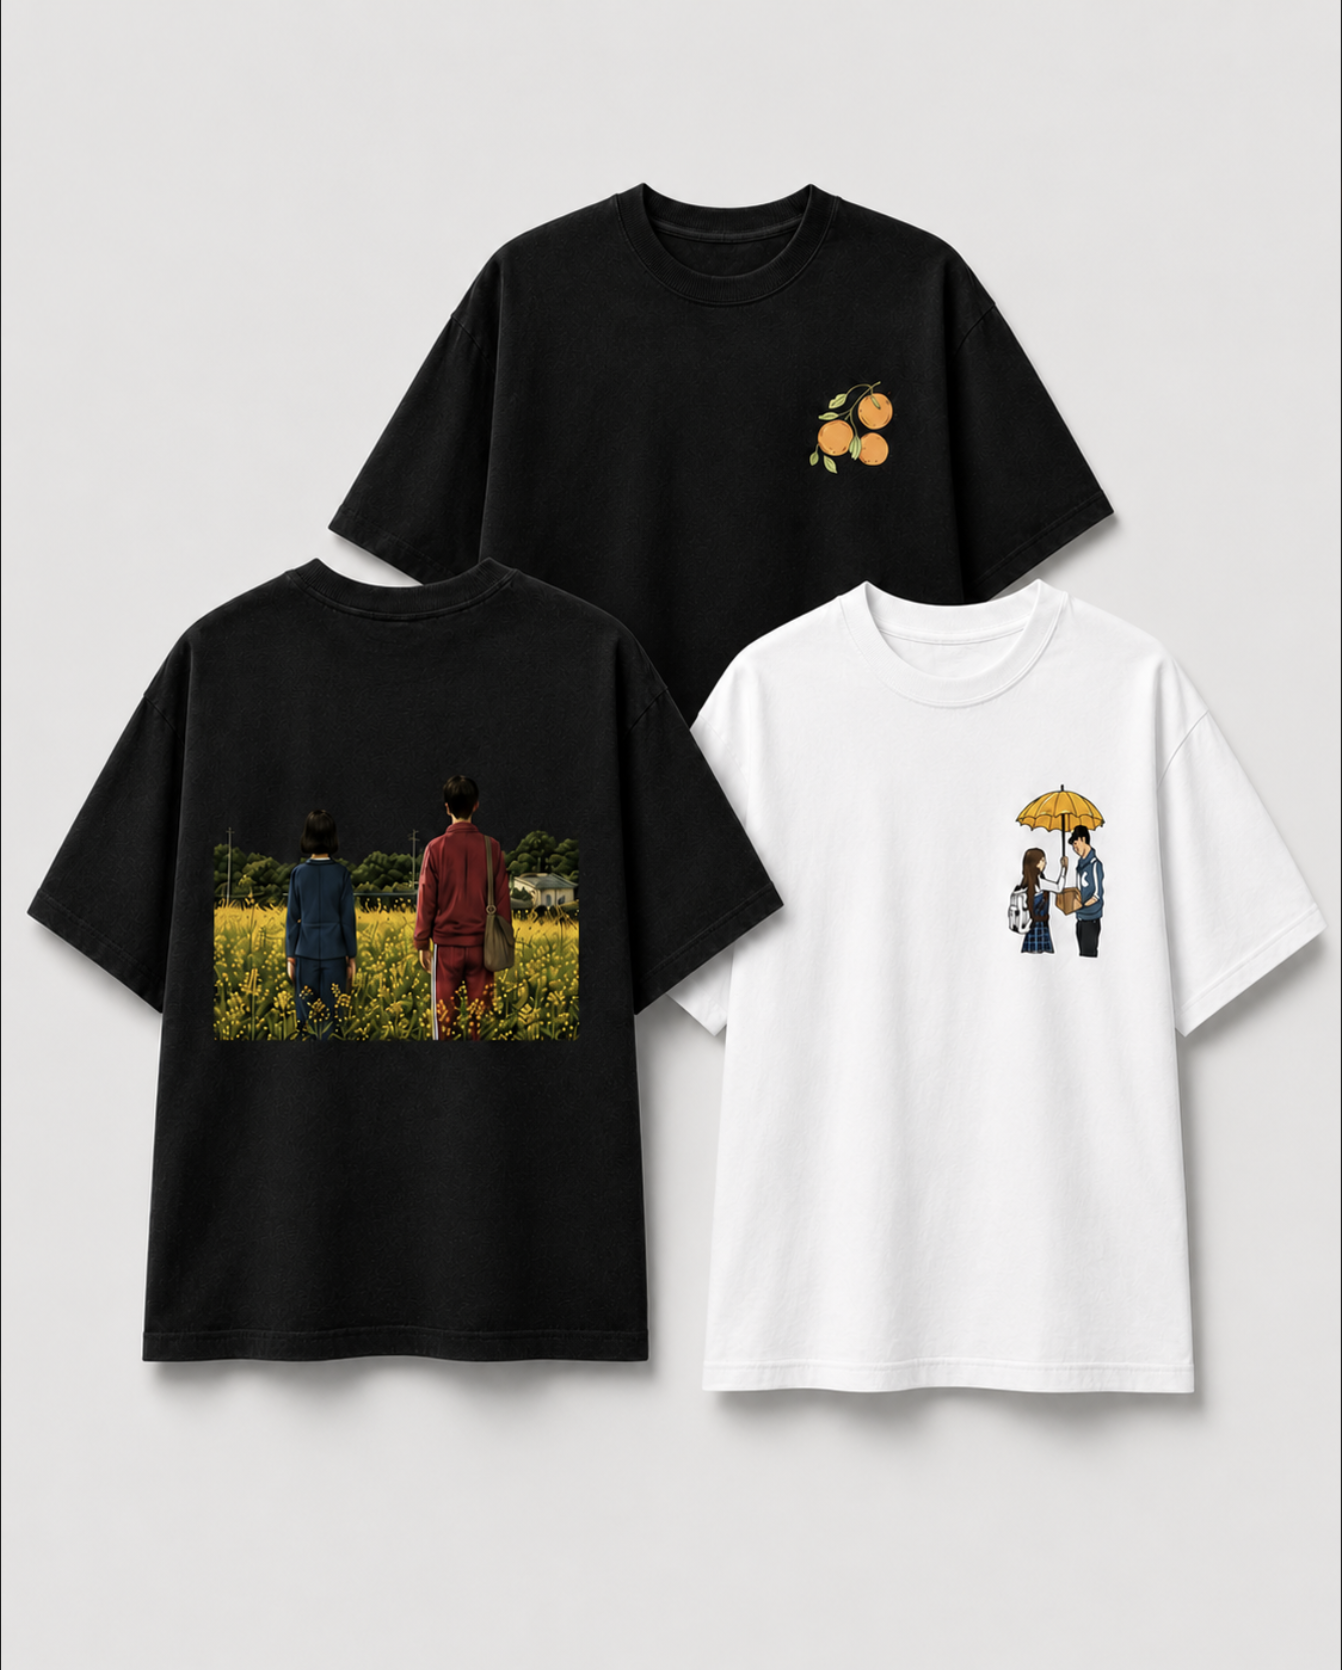
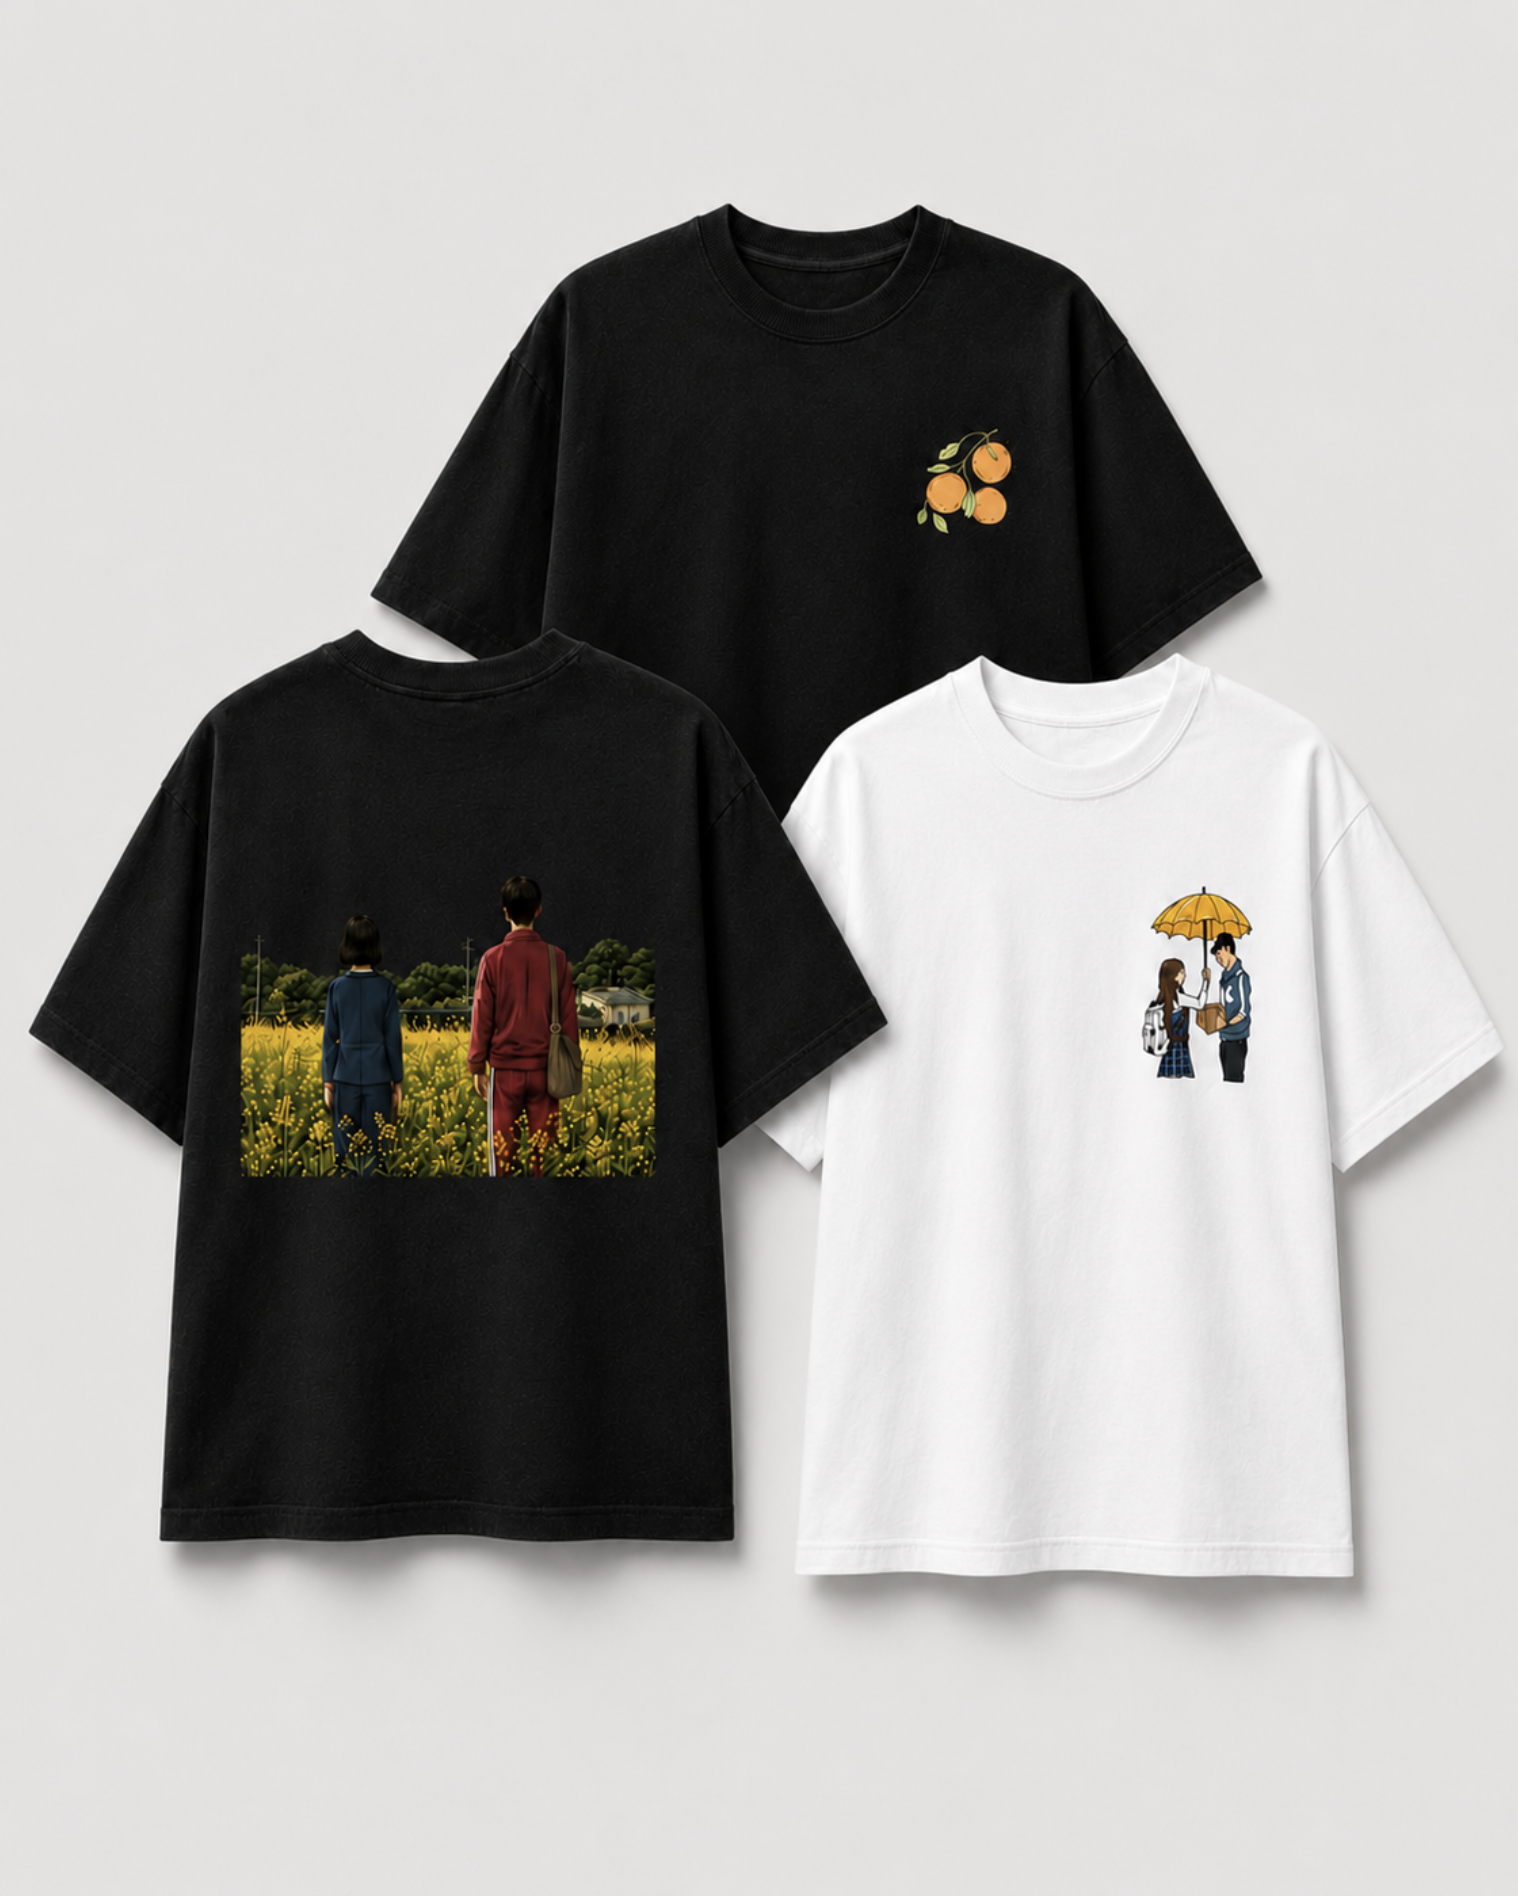
refactor: update product image asset paths and reorganize key mapping for tangerines

diff --git a/swoonrush-web/constants/products.ts b/swoonrush-web/constants/products.ts
@@ -177,10 +177,10 @@ export const PRODUCTS: Product[] = [
     offerPercentage: 22,
     currency: 'INR',
     images: {
-      front:
+      both:
         'https://raw.githubusercontent.com/swoonrush-f073/swoonrush-core/main/swoonrush-web/public/products/tangerines/combo.jpg',
-      back: 'https://raw.githubusercontent.com/swoonrush-f073/swoonrush-core/main/swoonrush-web/public/products/lovely-runner-oversized/front.jpg',
-      both: 'https://raw.githubusercontent.com/swoonrush-f073/swoonrush-core/main/swoonrush-web/public/products/lovely-runner-oversized/lifestyle.jpg',
+      front: 'https://raw.githubusercontent.com/swoonrush-f073/swoonrush-core/main/swoonrush-web/public/products/lovely-runner-oversized/front.jpg',
+      back: 'https://raw.githubusercontent.com/swoonrush-f073/swoonrush-core/main/swoonrush-web/public/products/tangerines/back.jpg',
     },
     sizes: ['S', 'M', 'L', 'XL'],
     colors: [

diff --git a/swoonrush-web/components/ProductActions.tsx b/swoonrush-web/components/ProductActions.tsx
@@ -22,7 +22,7 @@ const ProductActions: React.FC<ProductActionsProps> = ({ product }) => {
   );
   const whatsappUrl = `https://wa.me/${CONTACT_INFO.whatsapp}?text=${whatsappMessage}`;
 
-  const isEnabled = product.inStock && selectedSize !== '';
+  const isEnabled = product.inStock;
 
   return (
     <div className="flex flex-col h-full">